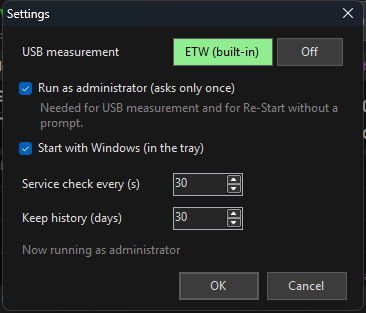
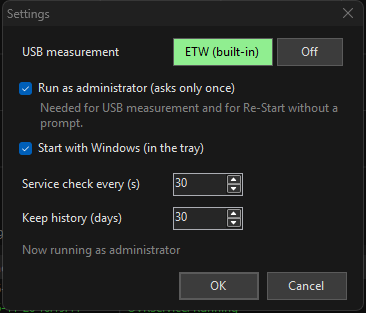
USB box uses Received / Sent like the Wi-Fi box

diff --git a/src/LinkWatch.cs b/src/LinkWatch.cs
@@ -264,8 +264,9 @@ class MainForm : Form {
 
         Label t;
         secUsb = Section("USB cable (Quest Link)", 62, 288, out t);
-        Legend(secUsb, "To Quest", colors["out"], 250, null, ">");
-        Legend(secUsb, "From Quest (~)", colors["in"], 355, "<", null);
+        // same wording and places as the Wi-Fi box, seen from the PC: Received (from Quest) | Sent (to Quest)
+        Legend(secUsb, "Received (~)", colors["in"], 300, "<", null);
+        Legend(secUsb, "Sent", colors["out"], 412, null, ">");
         picCable = new PictureBox { Location = new Point(8, 30), Size = new Size(475, 68), BackColor = BgGraph };
         picCable.Paint += (s, e) => DrawCable(e.Graphics, picCable.Width);
         secUsb.Controls.Add(picCable);
@@ -277,7 +278,7 @@ class MainForm : Form {
         Label netTitle;
         secNet = Section("Network", 358, 182, out netTitle);
         Legend(secNet, "Received", colors["rx"], 300, "<", null);
-        Legend(secNet, "Sent", colors["tx"], 400, null, ">");
+        Legend(secNet, "Sent", colors["tx"], 412, null, ">");
         graphNet = Graph(secNet, new[] { "rx", "tx" }, 30, 120);
         lblNetRate = L("", 8, 156, 475, 20); secNet.Controls.Add(lblNetRate);
         cmbNet = new ComboBox { DropDownStyle = ComboBoxStyle.DropDownList, FlatStyle = FlatStyle.Flat, Location = new Point(150, 4), Size = new Size(140, 22), BackColor = BgPanel, ForeColor = Color.Gainsboro };
@@ -405,7 +406,7 @@ class MainForm : Form {
             Add("out", o); Add("in", i); Add("rx", rx); Add("tx", tx);
             History.AddSecond(DateTime.Now, o, i, rx, tx);
             lblUsbRate.ForeColor = Color.Gainsboro;
-            if (etw.Running) lblUsbRate.Text = "To Quest: " + Rate(o) + "      From Quest: ~" + Rate(i);
+            if (etw.Running) lblUsbRate.Text = "Received: ~" + Rate(i) + "      Sent: " + Rate(o);
             else if (cfg.Measure != "ETW") lblUsbRate.Text = "USB measurement is off (settings)";
             else if (!App.IsAdmin) { lblUsbRate.ForeColor = Color.Orange; lblUsbRate.Text = "USB measurement needs admin mode (settings)"; }
             else { lblUsbRate.ForeColor = Color.Orange; lblUsbRate.Text = "USB measurement could not start: " + etw.LastError; }

diff --git a/src/History.cs b/src/History.cs
@@ -234,7 +234,7 @@ public class HistoryForm : Form {
                 g.DrawLine(p, x, PadT, x, h - PadB);
         }
         if (hoverX >= PadL && hoverX <= w - PadR) using (var p = new Pen(Color.FromArgb(110, 110, 110))) g.DrawLine(p, hoverX, PadT, hoverX, h - PadB);
-        g.DrawString("peak: " + MainForm.Rate(peak) + "    green: to Quest (avg, light = 1 s peak)   purple: from Quest (~)" + (chkWifi.Checked ? "   blue/orange: Wi-Fi" : ""),
+        g.DrawString("peak: " + MainForm.Rate(peak) + "    green: sent to Quest (avg, light = 1 s peak)   purple: received from Quest (~)" + (chkWifi.Checked ? "   blue/orange: Wi-Fi" : ""),
             UiFont, Brushes.Gray, PadL, 3);
         if (rows.Count == 0) g.DrawString("No data recorded in this range yet.", UiFont, Brushes.Gray, w / 2 - 110, h / 2 - 8);
     }
@@ -245,7 +245,7 @@ public class HistoryForm : Form {
         var t = from + TimeSpan.FromSeconds((to - from).TotalSeconds * (hoverX - PadL) / (w - PadL - PadR));
         var r = rows.OrderBy(x => Math.Abs((x.T - t).TotalSeconds)).First();
         if (Math.Abs((r.T - t).TotalMinutes) > Math.Max(2, range.TotalMinutes / (w - PadL - PadR) * 2)) { hover.Text = t.ToString("dd MMM HH:mm") + "   no data"; return; }
-        hover.Text = r.T.ToString("dd MMM HH:mm") + "   to Quest " + MainForm.Rate(r.Out) + " (peak " + MainForm.Rate(r.OutPeak) + ")\r\nfrom Quest ~" + MainForm.Rate(r.In) +
+        hover.Text = r.T.ToString("dd MMM HH:mm") + "   sent " + MainForm.Rate(r.Out) + " (peak " + MainForm.Rate(r.OutPeak) + ")\r\nreceived ~" + MainForm.Rate(r.In) +
             "   Wi-Fi " + MainForm.Rate(r.Rx) + " / " + MainForm.Rate(r.Tx);
     }
 }

diff --git a/README.md b/README.md
@@ -154,7 +154,7 @@ powershell -ExecutionPolicy Bypass -File .\build.ps1
 | Elevation without prompts | A per-user scheduled task with *Run with highest privileges* |
 | Settings and history | `%APPDATA%\LinkWatch\` (`settings.json`, `history\*.csv`) |
 
-**About the "from Quest" number:** for transfers coming *into* the PC, Windows logs the size of the buffer that was offered, not the bytes that actually arrived. Under load it reads roughly 10-15 % high, at idle much more, so it is shown with a `~`. The *to Quest* direction (the video stream) is exact.
+**About the "Received" number:** for transfers coming *into* the PC, Windows logs the size of the buffer that was offered, not the bytes that actually arrived. Under load it reads roughly 10-15 % high, at idle much more, so it is shown with a `~`. The *Sent* direction (PC to headset, the video stream) is exact.
 
 ## Uninstall
 
